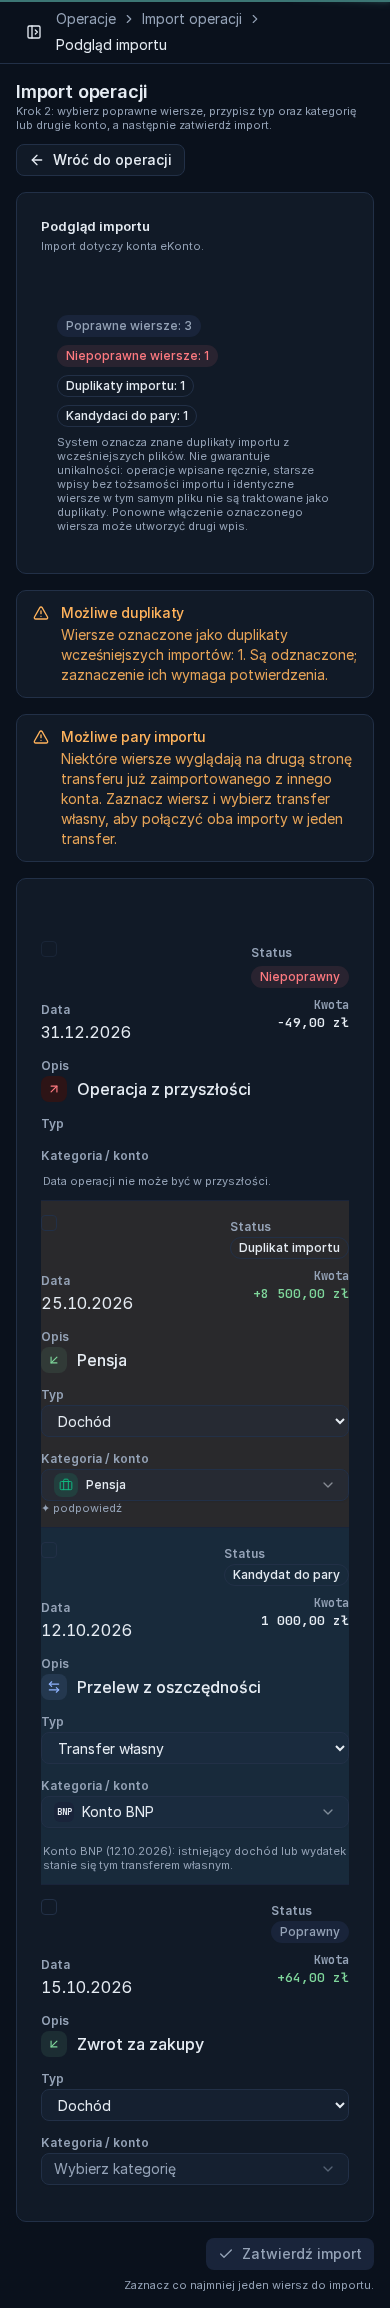
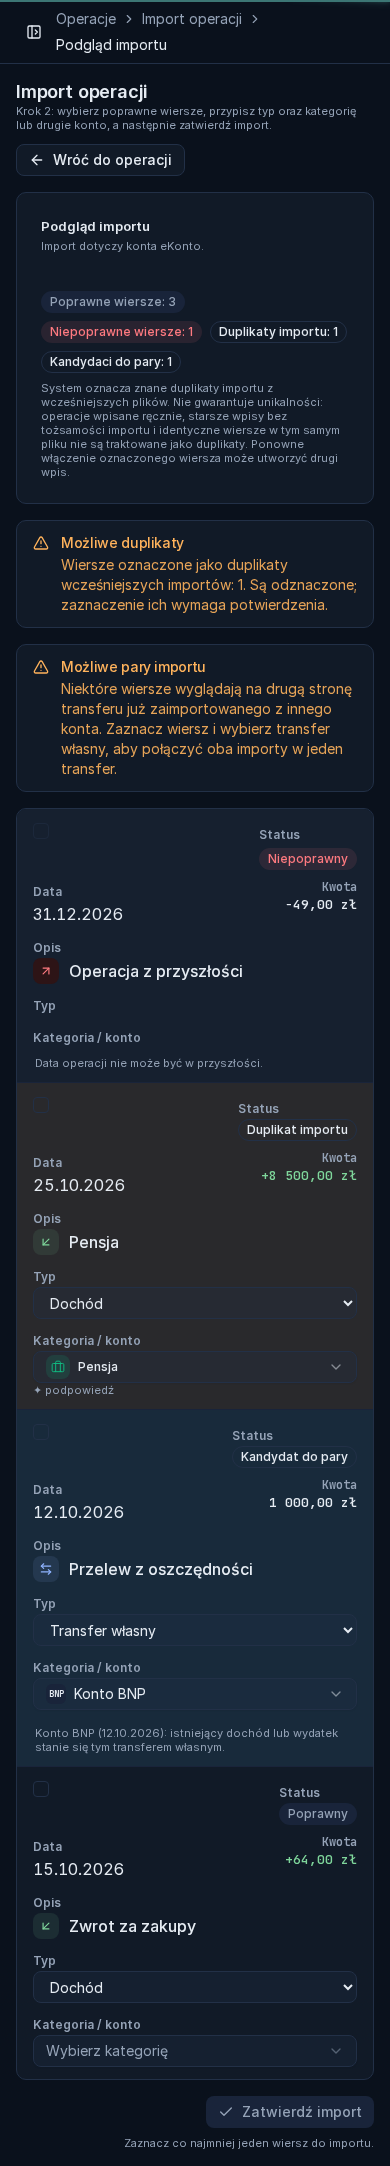
fix(import-preview-atrament-ui): poprawki z impl-review
- F1: kolumna wyboru na xl 4.5rem, „Importuj” nie nachodzi na „Data”
- F2: panel wierszy jako ListSurface flush, podsumowanie bez zbędnego p-4
- F3: błąd potwierdzenia duplikatów po polsku, składany w UI
  (duplicateAcknowledgementErrorText, fallback na tekst serwera)
- ADR-0052 i js-import.md, nowe zrzuty, raport reviews/impl-review.md,
  change.md → impl_reviewed

Claude-Session: https://claude.ai/code/session_01LmWq2eLztC18XusKPSGhRV

diff --git a/resources/js/pages/OperationsImportPreview.vue b/resources/js/pages/OperationsImportPreview.vue
@@ -18,7 +18,10 @@ import {
     monthHasPlan,
     type EntryToSpendInputs,
 } from '@/lib/entry-to-spend-warning';
-import { firstRowsError } from '@/lib/import-preview-errors';
+import {
+    duplicateAcknowledgementErrorText,
+    firstRowsError,
+} from '@/lib/import-preview-errors';
 import { importSubmitBlockReason } from '@/lib/import-submit-block';
 import { computeImportToSpendWarnings } from '@/lib/import-to-spend-warnings';
 import {
@@ -240,7 +243,7 @@ watch(consumedFirstLegKeysSet, () => {
         </ListSurface>
 
         <template v-else>
-            <ListSurface>
+            <ListSurface class="gap-4">
                 <template #header>
                     <div class="space-y-1">
                         <h2 class="section-title">
@@ -257,7 +260,7 @@ watch(consumedFirstLegKeysSet, () => {
                     </div>
                 </template>
 
-                <div class="flex flex-wrap gap-2 p-4">
+                <div class="flex flex-wrap gap-2">
                     <Badge variant="neutral">
                         {{
                             t.operations.import_valid_rows.replace(
@@ -329,7 +332,7 @@ watch(consumedFirstLegKeysSet, () => {
                 v-slot="{ errors, processing }"
                 class="space-y-4"
             >
-                <ListSurface>
+                <ListSurface flush>
                     <div class="overflow-x-auto">
                         <div
                             class="import-preview-grid import-preview-header-row"
@@ -386,7 +389,12 @@ watch(consumedFirstLegKeysSet, () => {
                 <ImportPreviewDuplicateAcknowledgement
                     v-if="requiresDuplicateAcknowledgement"
                     v-model="duplicateWarningAcknowledged"
-                    :error="errors.duplicate_warning_acknowledged"
+                    :error="
+                        duplicateAcknowledgementErrorText(
+                            errors.duplicate_warning_acknowledged,
+                            t.operations,
+                        )
+                    "
                 />
                 <InputError :message="firstRowsError(errors)" />
 

diff --git a/resources/js/lib/import-preview-errors.test.ts b/resources/js/lib/import-preview-errors.test.ts
@@ -1,5 +1,33 @@
 import { describe, expect, it } from 'vite-plus/test';
-import { firstRowsError } from './import-preview-errors';
+import {
+    duplicateAcknowledgementErrorText,
+    firstRowsError,
+} from './import-preview-errors';
+
+describe('duplicateAcknowledgementErrorText', () => {
+    const server =
+        'Acknowledge the import duplicate warning before committing selected duplicates.';
+
+    it('returns undefined without a server error', () => {
+        expect(
+            duplicateAcknowledgementErrorText(undefined, {
+                import_duplicate_acknowledgement_required: 'Potwierdź.',
+            }),
+        ).toBeUndefined();
+    });
+
+    it('composes the Polish sentence instead of the server text', () => {
+        expect(
+            duplicateAcknowledgementErrorText(server, {
+                import_duplicate_acknowledgement_required: 'Potwierdź.',
+            }),
+        ).toBe('Potwierdź.');
+    });
+
+    it('keeps the server text when the key is missing', () => {
+        expect(duplicateAcknowledgementErrorText(server, {})).toBe(server);
+    });
+});
 
 describe('firstRowsError', () => {
     it('returns undefined without errors', () => {

diff --git a/resources/css/app.css b/resources/css/app.css
@@ -787,7 +787,7 @@
     }
 
     .budget-category-header-row {
-        @apply table-header border-border/60 hidden border-b pb-2.5;
+        @apply table-header border-border/60 hidden border-b px-4 py-2.5;
     }
 
     @variant md {
@@ -1022,7 +1022,7 @@
     @variant xl {
         .import-preview-grid {
             align-items: start;
-            grid-template-columns: 2rem 6rem minmax(
+            grid-template-columns: 4.5rem 6rem minmax(
                     9rem,
                     1fr
                 ) 6.5rem 9rem 13.5rem 8.5rem;
@@ -1074,7 +1074,7 @@
      * tintu stoją po `.import-preview-row`.
      */
     .import-preview-header-row {
-        @apply table-header border-border/60 hidden border-b pb-2.5;
+        @apply table-header border-border/60 hidden border-b px-4 py-2.5;
     }
 
     @variant xl {
@@ -1084,7 +1084,7 @@
     }
 
     .import-preview-row {
-        @apply border-border-soft hover:bg-secondary border-b py-3 transition-colors last:border-b-0;
+        @apply border-border-soft hover:bg-secondary border-b px-4 py-3 transition-colors last:border-b-0;
     }
 
     .import-preview-row-duplicate {

diff --git a/resources/js/lib/import-preview-errors.ts b/resources/js/lib/import-preview-errors.ts
@@ -1,5 +1,21 @@
 const ROW_ERROR_KEY = /^rows\.\d+\./;
 
+/**
+ * The `duplicate_warning_acknowledged` field carries exactly one error, so the
+ * UI composes the Polish sentence from `lang/pl/ui.php`; the server text stays
+ * as the fallback when the key is missing, so no evidence is lost.
+ */
+export function duplicateAcknowledgementErrorText(
+    serverError: string | undefined,
+    operations: Record<string, string>,
+): string | undefined {
+    if (serverError === undefined || serverError === '') {
+        return undefined;
+    }
+
+    return operations.import_duplicate_acknowledgement_required ?? serverError;
+}
+
 export function firstRowsError(
     errors: Record<string, string>,
 ): string | undefined {

diff --git a/resources/js/pages/dev/ImportPreviewSink.vue b/resources/js/pages/dev/ImportPreviewSink.vue
@@ -301,7 +301,7 @@ const sampleErrors = {
             <h2 class="section-title">{{ section.title }}</h2>
             <p class="meta text-muted-foreground">{{ section.note }}</p>
 
-            <ListSurface>
+            <ListSurface flush>
                 <div class="overflow-x-auto">
                     <div class="import-preview-grid import-preview-header-row">
                         <span class="import-preview-cell-select">

diff --git a/lang/pl/ui.php b/lang/pl/ui.php
@@ -665,6 +665,7 @@ return [
         'import_row_control_label' => ':column: :date, :description',
         'import_preview_empty_description' => 'Plik nie zawiera wierszy z datą i kwotą. Wróć i wybierz inny plik.',
         'import_duplicate_acknowledge' => 'Rozumiem, że zaznaczone duplikaty importu mogą utworzyć drugi wpis',
+        'import_duplicate_acknowledgement_required' => 'Zaznacz potwierdzenie, że rozumiesz ryzyko drugiego wpisu, aby zaimportować zaznaczone duplikaty.',
         'import_confirm' => 'Zatwierdź import',
         'date' => 'Data',
         'description' => 'Opis',

diff --git a/context/changes/import-preview-atrament-ui/reviews/impl-review.md b/context/changes/import-preview-atrament-ui/reviews/impl-review.md
@@ -1,0 +1,87 @@
+<!-- IMPL-REVIEW-REPORT -->
+# Implementation Review: Podgląd importu, krok 2 w Atramencie
+
+- **Plan**: context/changes/import-preview-atrament-ui/plan.md
+- **Scope**: Full plan
+- **Reviewed phases**: 1, 2, 3, 4
+- **Date**: 2026-11-06
+- **Verdict**: NEEDS ATTENTION
+- **Findings**: 0 critical 3 warnings 2 observations
+
+## Verdicts
+
+| Dimension | Verdict |
+|-----------|---------|
+| Plan Adherence | WARNING |
+| Scope Discipline | PASS |
+| Safety & Quality | PASS |
+| Architecture | PASS |
+| Pattern Consistency | WARNING |
+| Success Criteria | PASS |
+
+Notes: diff 1fc9820..deb008d matches the plan's file list (no EXTRA, no MISSING). No empty catch or swallowed error; no float money (importRowAmount works on int minor units, reuses format.ts helpers, ADR-0038 sign/colour mapping as planned); no hex or palette colours in changed files (fixtures use DEFAULT_CATEGORY_COLOR); components/ui/* untouched; the prop change (invalid_reason code, pair candidate without `reason`) is on both sides with assertInertia tests; the unknown-code fallback keeps old-session evidence. Automated gates were run green by the orchestrator per phase (ci:check PG 926 passed, npm test 299, check:ui, check, types:check, sloppy, Playwright 4). Manual Progress rows 1.3, 2.6, 3.4-3.6, 4.6, 4.7 are still `[ ]` (pending, not falsely ticked).
+
+## Findings
+
+### F1 — Column caption "Importuj" overlaps "Data" at xl (1280px)
+
+- **Severity**: ⚠ WARNING
+- **Impact**: 🏃 LOW — quick decision; fix is obvious and narrowly scoped
+- **Dimension**: Plan Adherence
+- **Location**: resources/css/app.css:1022-1031 (xl grid, 2rem select column) and .import-preview-header-row (~:1072)
+- **Detail**: Confirmed in screenshots preview-1280-light.png / preview-duplicate-error.png: the header cell "Importuj" (import_select) is wider than the 2rem select column and runs into "Data". The grid itself is unchanged by this change (pre-existing), but plan step 3.6 told the implementer to inspect column widths on the screenshot and fix them in the same class, and 4.6 asks the shots to match the PageImportPreview card. The defect is committed as evidence.
+- **Fix**: Widen the xl select column (e.g. 4.5rem) or make that header cell `sr-only`/shorter, then re-take the 1280 shots.
+- **Decision**: FIXED — `.import-preview-*` grid: the xl select column is `4.5rem` (was `2rem`); at 1280 px "Importuj" ends at x=340 and "Data" starts at x=373; amount cells stay on one line. 1280/390 shots re-taken in both themes.
+
+### F2 — Tall empty gap inside the summary ListSurface and the rows panel
+
+- **Severity**: ⚠ WARNING
+- **Impact**: 🏃 LOW — quick decision; fix is obvious and narrowly scoped
+- **Dimension**: Pattern Consistency
+- **Location**: resources/js/pages/OperationsImportPreview.vue:243 (summary ListSurface) and the rows ListSurface; resources/js/components/ListSurface.vue:41-52
+- **Detail**: Confirmed (about 60px between the h2/meta header and the pills; similar gap above the table header row). Cause: non-flush ListSurface renders Card (default flex gap-6) + CardHeader pb-4, and the body adds its own `p-4`, so the spacing stacks. ADR-0052 specifies ListSurface with #header, so the structure is right; the spacing is not.
+- **Fix**: Pass a spacing class on these ListSurface uses (e.g. reduced gap, drop the redundant `p-4`) or use `flush` with the bordered header bar; re-take shots. Do not edit components/ui/*.
+- **Decision**: FIXED — rows panel is `<ListSurface flush>` (as `MonthPlanTable`, `OperationsListPanel`) with `px-4` on `.import-preview-header-row` and `.import-preview-row`; the summary drops the redundant body `p-4` and uses `gap-4`. The gap above the table is gone; the summary keeps ~38 px (CardHeader `pb-4` + `gap-4`, same shell as `MonthSummaryCard`). Shots re-taken.
+
+### F3 — Server validation message for duplicate acknowledgement reaches the UI in English
+
+- **Severity**: ⚠ WARNING
+- **Impact**: 🔎 MEDIUM — real tradeoff; pause to reason through it
+- **Dimension**: Plan Adherence
+- **Location**: app/Http/Controllers/CsvImportController.php:336 (shown by ImportPreviewDuplicateAcknowledgement.vue, see preview-duplicate-error.png)
+- **Detail**: Confirmed: "Acknowledge the import duplicate warning before committing selected duplicates." renders under the new Polish checkbox. The plan consciously defers server English text (D1, incl. `rows.*` errors), so this is within "NOT doing", but this is the very message the new component was built to display and it undermines the Polish-copy goal of the screen; the plan did not list it explicitly.
+- **Fix A ⭐ Recommended**: Record as a follow-up under D1 (follow-ups/review-fixes.md).
+  - Strength: keeps the agreed scope; one decision for all `__()` calls.
+  - Tradeoff: user sees English on this error for now.
+  - Confidence: HIGH — the plan's D1 explicitly excludes server messages.
+  - Blind spot: None significant.
+- **Fix B**: Send a code and translate client-side, or add a single `lang/pl.json` key.
+  - Strength: fixes the visible defect now.
+  - Tradeoff: re-opens the D1 mechanism decision.
+  - Confidence: MED — needs a decision on the mechanism.
+  - Blind spot: Other `rows.*` messages stay English.
+- **Decision**: FIXED (user decision: Polish on the UI side) — `duplicateAcknowledgementErrorText` in `resources/js/lib/import-preview-errors.ts` (Vitest red first) returns `operations.import_duplicate_acknowledgement_required` when the server sends the error and falls back to the server text; the server and the Inertia contract are unchanged. ADR-0052 "Reasons" and `.ai/rules/js-import.md` mention it. `preview-duplicate-error.png` re-taken.
+
+### F4 — Sink offsets fixture row indexes (+100..+400)
+
+- **Severity**: 💡 OBSERVATION
+- **Impact**: 🏃 LOW — quick decision; fix is obvious and narrowly scoped
+- **Dimension**: Architecture
+- **Location**: resources/js/pages/dev/ImportPreviewSink.vue:134-200
+- **Detail**: Confirmed and documented in a comment: ImportPreviewRow builds element ids from row.index, so sections reuse fixture rows with shifted indexes to keep ids unique. Dev-only; plan 4.7 requires no duplicate ids. Cost is the `row.index - section.offset` arithmetic in the template (:338-357).
+- **Fix**: Acceptable as is; optionally give ImportPreviewRow an id-prefix prop later.
+- **Decision**: ACCEPTED — workaround stays, documented in the sink; an id prefix on `ImportPreviewRow` is a possible follow-up, listed for the user.
+
+### F5 — Manual verification rows still open
+
+- **Severity**: 💡 OBSERVATION
+- **Impact**: 🏃 LOW — quick decision; fix is obvious and narrowly scoped
+- **Dimension**: Success Criteria
+- **Location**: plan.md Progress rows 1.3, 2.6, 3.4, 3.5, 3.6, 4.6, 4.7
+- **Detail**: Correctly unticked. 4.6 should stay open until F1/F2 are addressed and shots refreshed.
+- **Fix**: Tick after human confirmation following F1/F2.
+- **Decision**: OPEN — manual rows stay unticked until the user confirms them.
+
+## Observation dismissed (not a finding)
+
+(e) "Żabka -32,90" missing from the real-app preview: not a defect of this change. `isOperationShapedRow` (CsvImportController.php:472-479, unchanged) silently drops CSV rows with an unparseable date or amount before the preview, so it is a data/parsing quirk of the screenshot CSV. Possible separate issue: such rows vanish without any message.

diff --git a/context/foundation/adr/0052-import-preview-follows-page-import-preview.md b/context/foundation/adr/0052-import-preview-follows-page-import-preview.md
@@ -10,7 +10,7 @@ Pills. "Poprawne" and "Poprawny" are `neutral`, "Niepoprawne" and "Niepoprawny" 
 
 Amount. The sign and the colour follow the chosen type (ADR-0038): income and refund are `+` with `success`, an expense is `−` with `foreground`. An own transfer and a capital movement go through `formatMoney` with the sign from the file and carry no colour, as `OwnTransferRow` does in Operations. The unit "zł" stands in the cell and the style is `amount`, with no "Kwoty w zł" footer. The import preview is the third exception to ADR-0037, after ADR-0039 and ADR-0044, because these rows become rows of Operations and should read the same before and after the save. The colour of an amount no longer follows the sign in the file, so a row never shows green or red for a type the user has changed.
 
-Reasons. The server sends the rejection code and the data of the candidate (the dates and the account of the pair), not sentences, as the Dashboard sends data and the view composes the text (ADR-0043). The UI builds the sentence from `lang/pl/ui.php` and `formatDate`, so the date reads `dd.mm.rrrr`; a code the UI does not know is shown unchanged and is not dropped.
+Reasons. The server sends the rejection code and the data of the candidate (the dates and the account of the pair), not sentences, as the Dashboard sends data and the view composes the text (ADR-0043). The UI builds the sentence from `lang/pl/ui.php` and `formatDate`, so the date reads `dd.mm.rrrr`; a code the UI does not know is shown unchanged and is not dropped. The error of the duplicate acknowledgement is composed in the UI the same way, from `lang/pl/ui.php`; the server's English message stays as the fallback.
 
 Row checkbox. The checkbox of the row is 24 px through the named class `.import-preview-select-check`, because it is the main action of the row and a touch target below 24 px fails WCAG 2.5.8. The confirmation of duplicates is `.form-check-row` (ADR-0048) with its error linked by `aria-describedby`.
 

diff --git a/.ai/rules/js-import.md b/.ai/rules/js-import.md
@@ -29,6 +29,7 @@ Step 2 follows PageImportPreview (ADR-0052):
 - Pills: valid `neutral`, invalid `destructive-soft`, duplicate and pair `outline`; never the full `destructive`.
 - The amount goes through `importRowAmount` (`resources/js/lib/import-row-amount.ts`): sign and colour by the chosen type, "zł" in the cell, style `amount`; no `amountToneClass` by the sign in the file.
 - Reasons are composed in the UI by `resources/js/lib/import-row-reasons.ts` from the code and data sent by the server. A new rejection code is a case of the enum `ImportRowInvalidReason` plus a key `import_invalid_reason_<code>` in `lang/pl/ui.php`; the server never sends a sentence.
+- The duplicate-acknowledgement error (`duplicate_warning_acknowledged`) is also composed in the UI by `duplicateAcknowledgementErrorText` (`resources/js/lib/import-preview-errors.ts`) from `import_duplicate_acknowledgement_required` in `lang/pl/ui.php`; the server's English message stays as the fallback.
 - The row checkbox is 24 px through `.import-preview-select-check`; the duplicates confirmation is `.form-check-row` with its error linked by `aria-describedby`.
 - The kitchen sink at `/dev/import-preview` mounts the real page.
 - `tests/Unit/ImportPreviewHardcodedUiTest.php` guards `OperationsImportPreview.vue`, `ImportPreviewRow.vue`, `ImportPreviewSubmitBar.vue`, `ImportPreviewDuplicateAcknowledgement.vue`, `pages/dev/ImportPreviewSink.vue` and `lib/import-preview-fixtures.ts`; they are also on the `check:ui` list.

diff --git a/context/changes/import-preview-atrament-ui/change.md b/context/changes/import-preview-atrament-ui/change.md
@@ -1,7 +1,7 @@
 ---
 change_id: import-preview-atrament-ui
 title: Import preview atrament ui
-status: implemented
+status: impl_reviewed
 created: 2026-11-06
 updated: 2026-11-06
 ---
